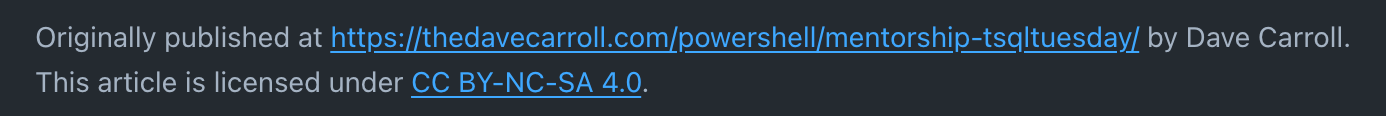
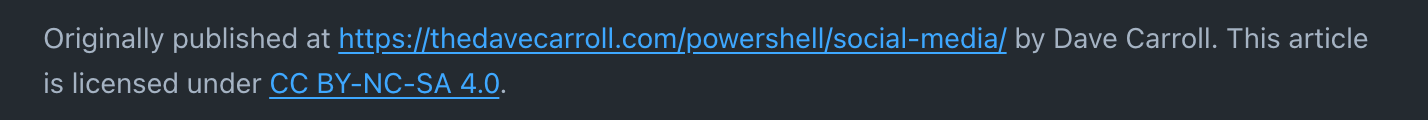
Add social media post

Changed region(s): [[0.031, 0.2069, 0.9928, 0.4655], [0.0, 0.5948, 0.4654, 0.8534]]

diff --git a/content/powershell/social-media.md b/content/powershell/social-media.md
@@ -15,7 +15,7 @@ I'm not sure if people are still finding this site useful, or even simply findin
 
 The topics of this post diverge from the technical and focuses on the human (me).
 
-## Social Media
+## Social media
 
 Some of you may have found me through social media, primarily Twitter (now X), Mastodon, and LinkedIn.
 You may have noticed that, like this blog, I have not post much over the last few years.
@@ -30,8 +30,8 @@ And MySpace in November 2010.
 >Now to wait the 30 days for it to self-destruct (delete).
 
 The main reason for this post is to let you know that I will be deleting my LinkedIn account.
-It served me well, but I have logged in less, and less.
-I've realized that my data and my usage has benefited LinkedIn much more than Linked has benefited me.
+It served me well, but I have logged in less and less.
+I've realized that my data and my usage have benefited LinkedIn much more than Linked has benefited me.
 That needs to stop.
 
 At the end of December 2026, I will delete my LinkedIn account.
@@ -47,13 +47,13 @@ Or Subway, Etsy, Netflix, Longhorn, and many, many others?
 
 Convenience?
 Maybe.
-Data breaches are prevalent, and I believe will become moreso.
+Data breaches are prevalent, and I believe they will become moreso.
 At some point, security must come before convenience.
 
 I have considered using a personal data scrubbing service,
 but I haven't had the energy to dig into finding the best one.
 
-By the way, I have adopted the [Creative Commons BY-NC-SA 4.0](https://creativecommons.org/licenses/by-nc-sa/4.0/) license.
+By the way, I have adopted the [Creative Commons BY-NC-SA 4.0](https://creativecommons.org/licenses/by-nc-sa/4.0/) license for this site.
 The site footer includes this license, as does each article.
 
 ![Attribution Example](/images/attribution-example.png)
@@ -61,7 +61,7 @@ The site footer includes this license, as does each article.
 ## Where to find me
 
 I hope to be writing more articles of a technical nature, but I believe the format will be changing.
-With the proliferation of AI tools available (and forced upon) the masses, I won't be providing fully functioning scripts.
+With the proliferation of AI tools available to (and forced upon) the masses, I won't be providing fully functioning scripts.
 I will be providing seeds of ideas and tell you what I've been learning and doing (with and without the help of AI).
 
 Besides this site, I am still on GitHub and will continue to be for the foreseeable future.
